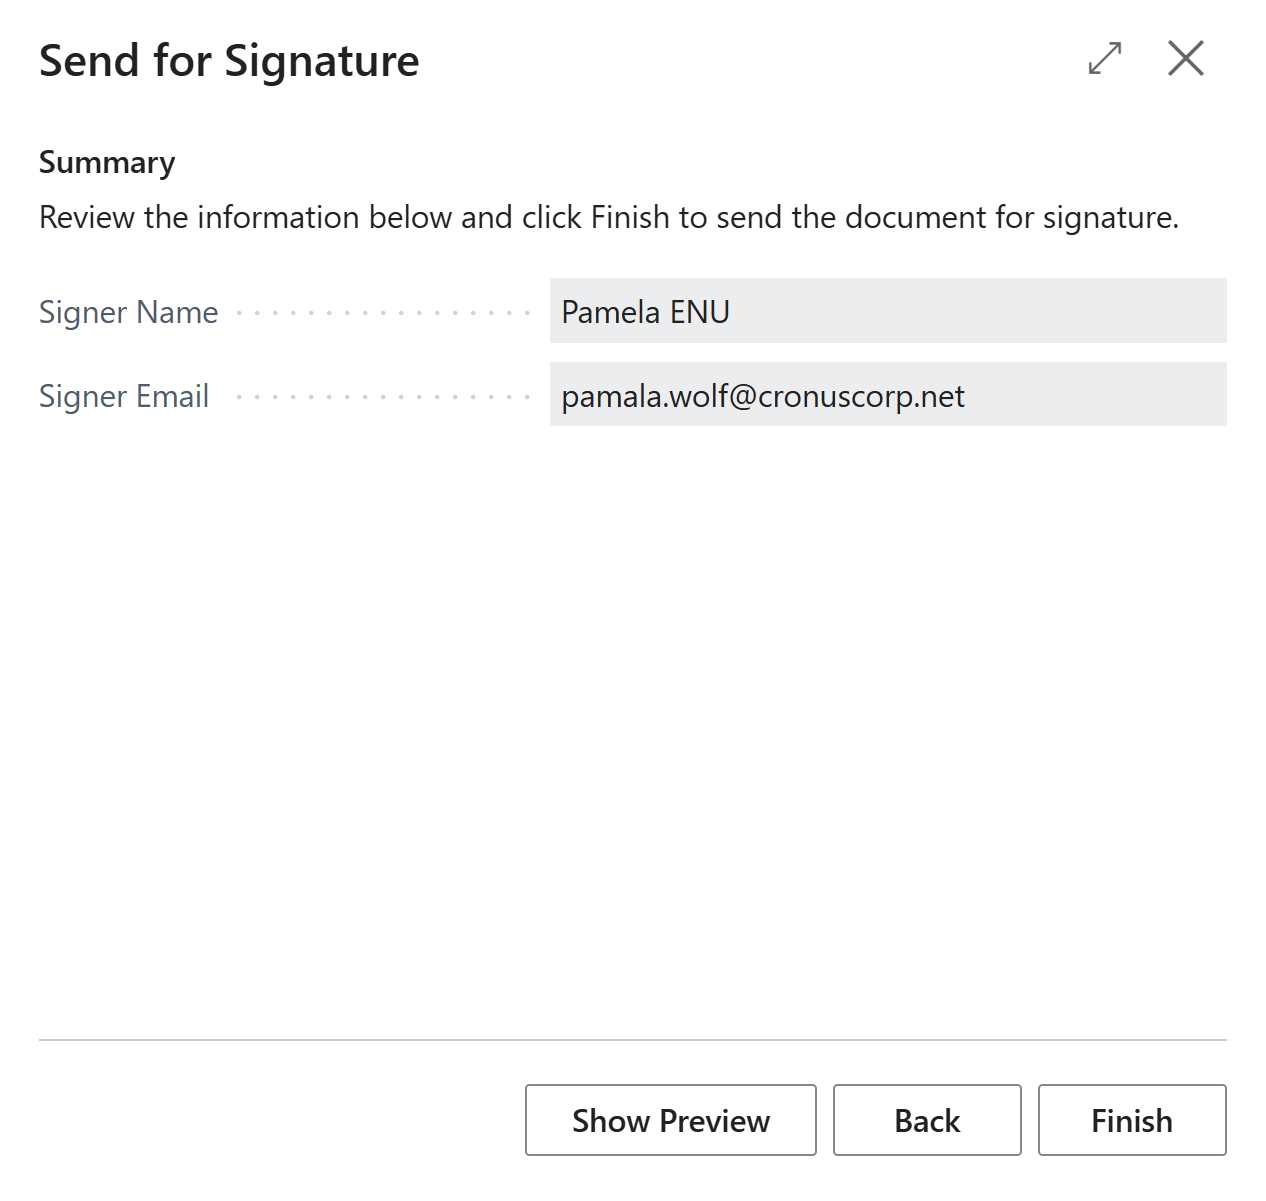
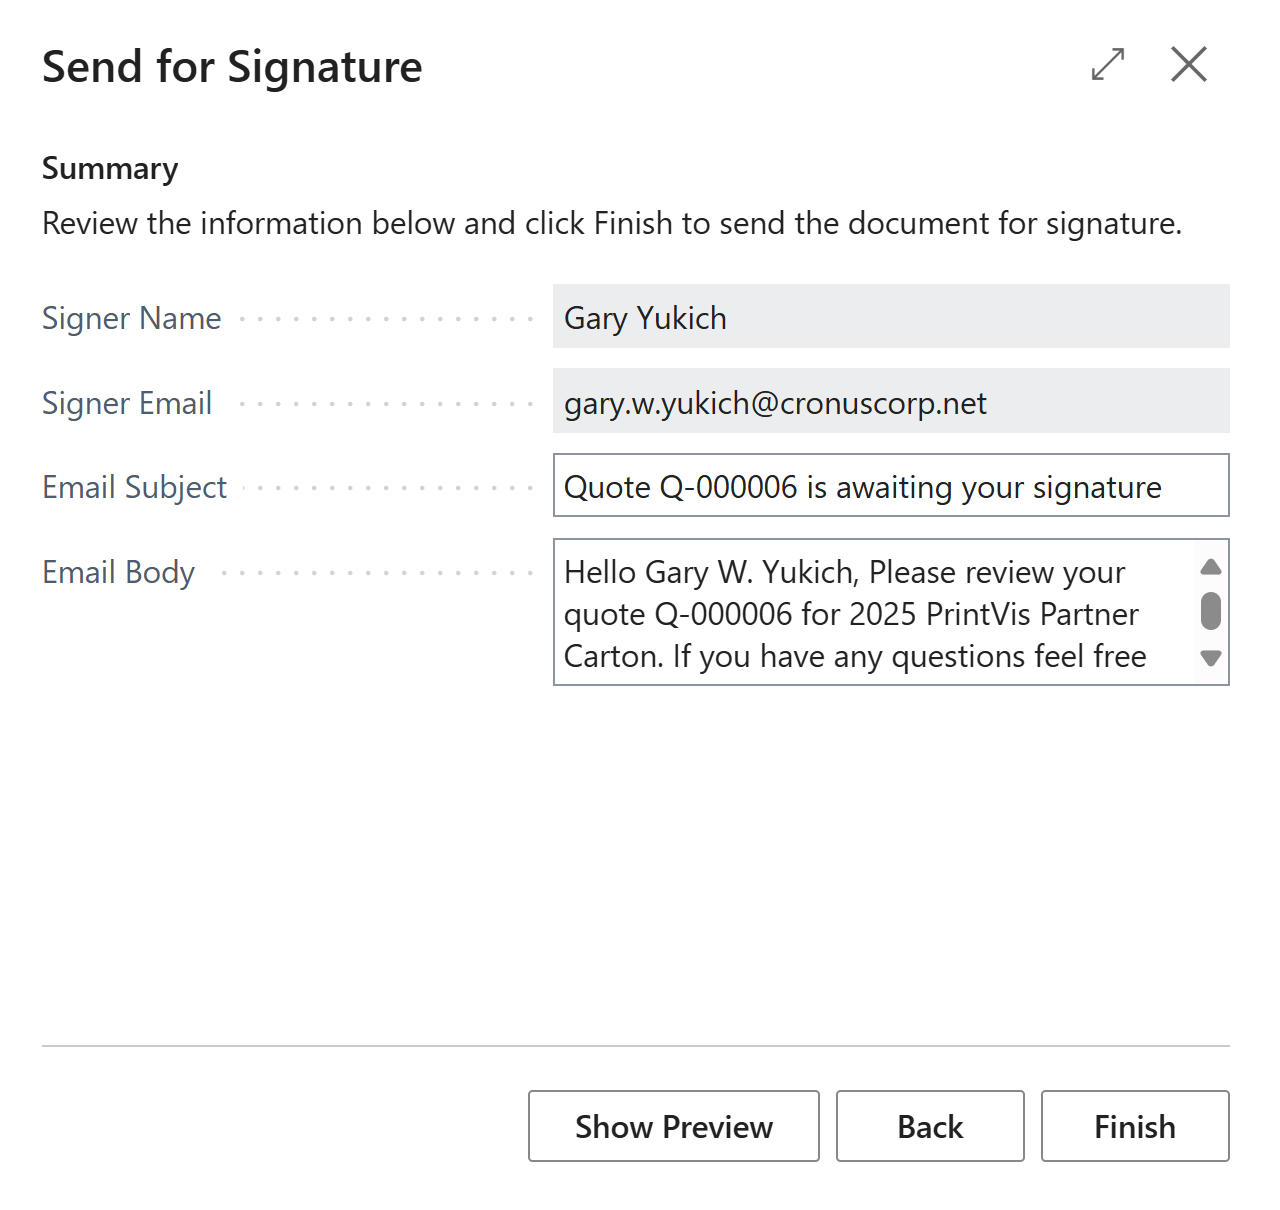
UpdateDocubeeDocumentation

diff --git a/docs/Docubee/DocubeeSetup.md b/docs/Docubee/DocubeeSetup.md
@@ -120,15 +120,13 @@ case or notify the salesperson or coordinator.
 
 ![Image](./SetupAssets/image9.png)
 
--   Create a **Code** for each unique workflow and set the values or
-    process for that workflow. For example: When a quote is signed you
-    might want to update the case status to ORDER and email the
-    salesperson and coordinator. Or if you send an artwork approval
-    document, you might want to mark a proof sent milestone as
-    completed. These are some of the unique workflows you might want to
-    setup for each step in the process.
+-   Click **New** to create a new workflow. 
 
 ![Image](./SetupAssets/image13.png)
+
+Each workflow represents a unique process for when a document is sent, signed, declined, or expired. For example: When a quote is signed you might want to update the case status to ORDER and email the salesperson and coordinator. Or if you send an artwork approval document, you might want to mark a proof sent milestone as completed. These are some of the unique workflows you might want to setup for each step in the process. On the Document workflow card, you can also set the default email subject and body for that process in the workflow. The tooltips provide the available % codes that can be used to fill in information from the case. Currently, Docubee only supports plain text entry for these email values.
+
+![Image](./SetupAssets/image20.png)
 
 ### Assigning Reports as Docubee Reports
 
@@ -145,8 +143,10 @@ specific report, you must assign each report as available for Docubee
 
 ![Image](./SetupAssets/image14.png)
 
--   Do this for each report type that you want to use Docubee for
-    signatures
+-   Do this for each report type that you want to use Docubee for signatures
+
+-   For the Artwork Approval report, you will need to go to **PrintVis Docubee Report Selection Setup** until we can update the PrintVis Report Selection
+    Setup page to allow for outside customizations and apps to extend the list.
 
 ### Adding Docubee Documents to PrintVis Folders
 

diff --git a/docs/Docubee/DocubeeUsage.md b/docs/Docubee/DocubeeUsage.md
@@ -35,8 +35,7 @@ look like in Docubee
 
 ![Image](./UsageAssets/image6.png)
 
-Click **Next** to continue and then click **Finish** on the summary page
-to send the document
+Click **Next** to continue and the default email subject and body will be filled in from the setup. Here the subject or body can be edited before sending the document. Click **Finish** on the summary page to send the document
 
 ![Image](./UsageAssets/image7.png)
 
